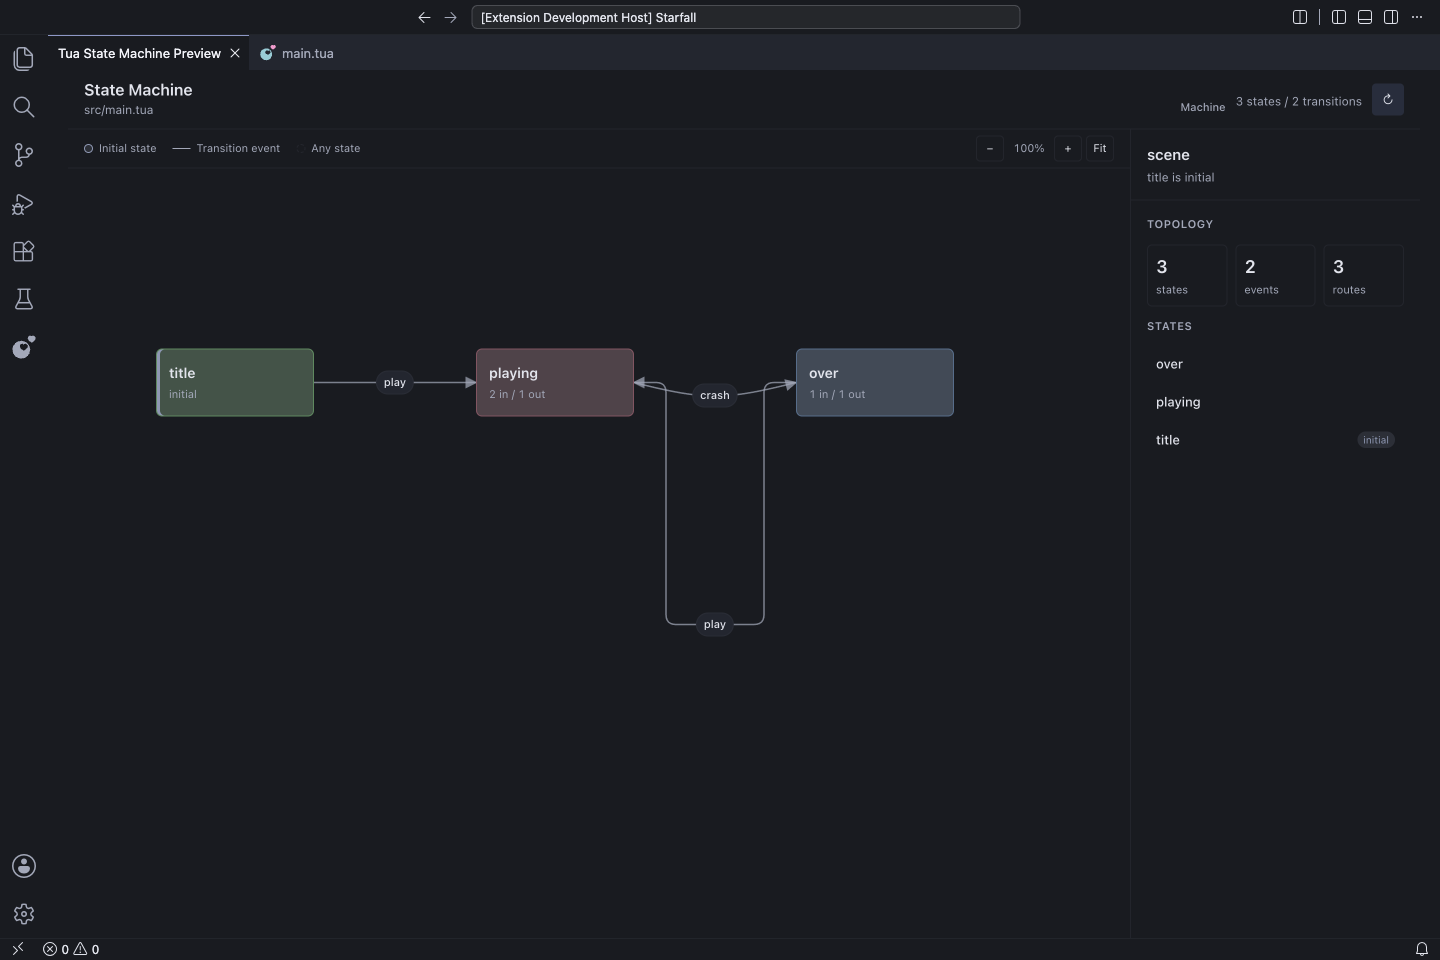
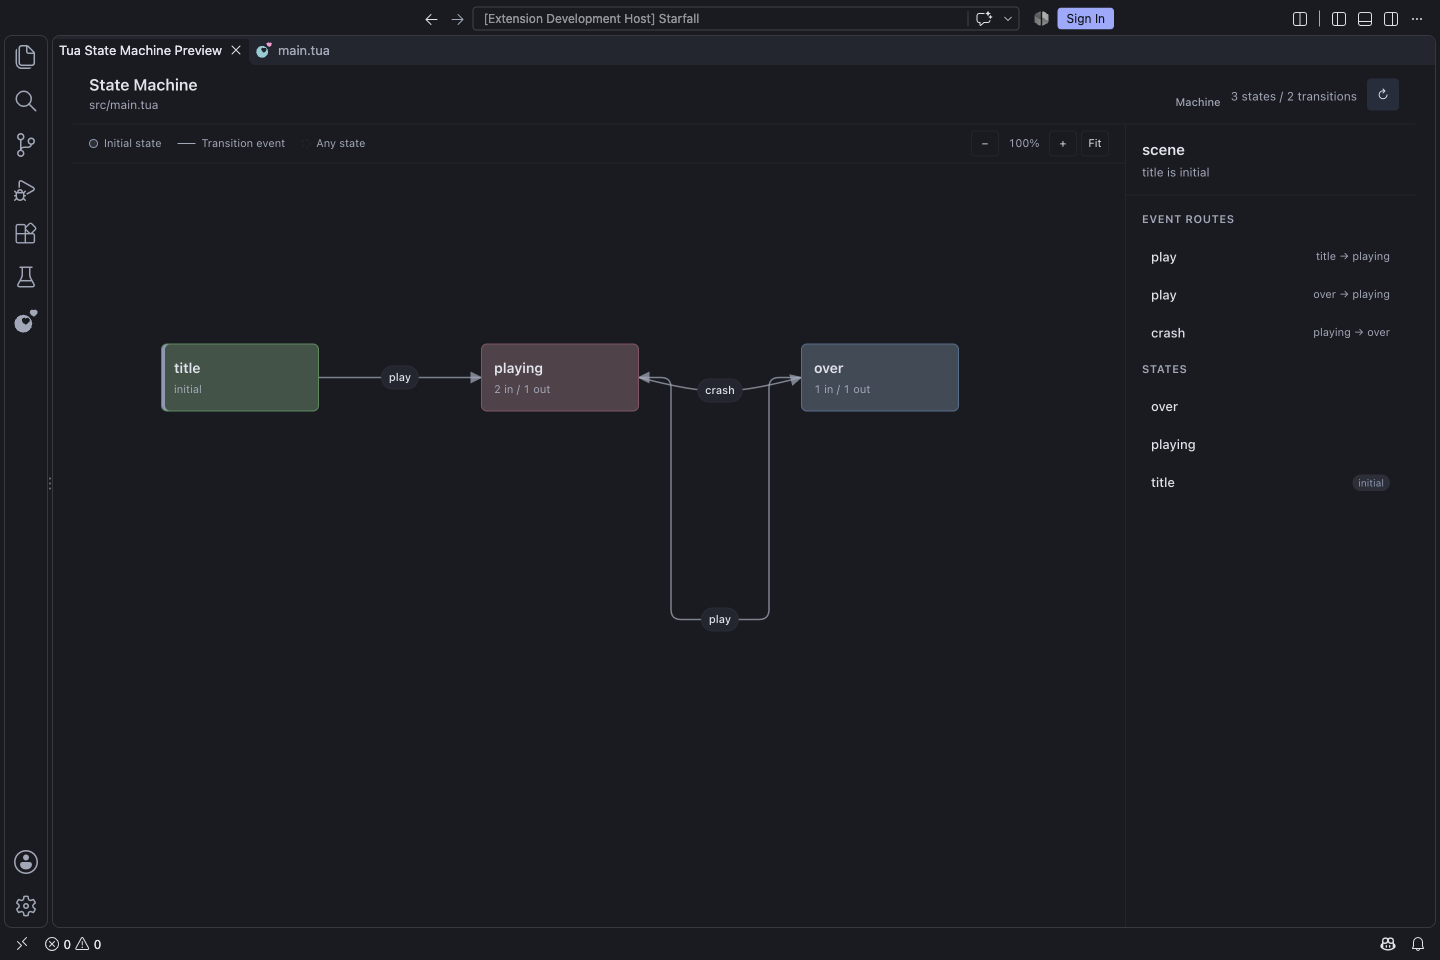
docs: prepare 0.9.0 release notes and editor gallery

diff --git a/CHANGELOG.md b/CHANGELOG.md
@@ -6,6 +6,39 @@ language or editor behavior, and migration notes call out those changes.
 
 ## [Unreleased]
 
+### Release summary
+
+Tua 0.9.0 focuses on the responsiveness and clarity of everyday game editing.
+Ordinary hover and hidden previews avoid unnecessary analysis, while module
+export inference does less work on large projects. The extension adds more
+useful views for fonts, sprite timing, state-machine routes, ECS relationships,
+and server health. Type checking and editor assistance also stay aligned more
+often across imported classes, generic results, signals, and audio snapshots.
+
+#### Highlights
+
+- Keep hover and workspace views responsive by skipping preview work that the
+  current editor action cannot display. Large-workspace module indexing also
+  avoids resolving unused imports.
+- Preview a font with your own text, inspect effective sprite-frame durations,
+  select crowded state-machine routes by name, and follow ECS relationships
+  without losing the source reference.
+- Retain useful types for imported generic fields, class receivers, and
+  SignalBus payloads; reject misspelled top-level audio snapshot fields.
+- Diagnose shader paths that would fail after build relocation, preserve code
+  after inline `super()` calls, and keep formatting after generic aliases stable.
+- Generate game workflows that install the matching checked Linux release CLI
+  archive instead of compiling Tua for each run.
+
+#### Upgrade notes
+
+Update the CLI/server and extension together, then run `tua check` and
+`tua build` in your project. Existing configuration needs no migration.
+Previously accepted extra top-level `AudioSnapshot` fields now produce a type
+error, and source-root-prefixed shader paths that fail in the build are
+diagnosed. Existing generated GitHub Actions workflows are unchanged; rerun
+`tua actions init` only if you want the new installer template.
+
 ### Changed
 
 - Model-facing language guidance and offline evaluation now recognize generic
